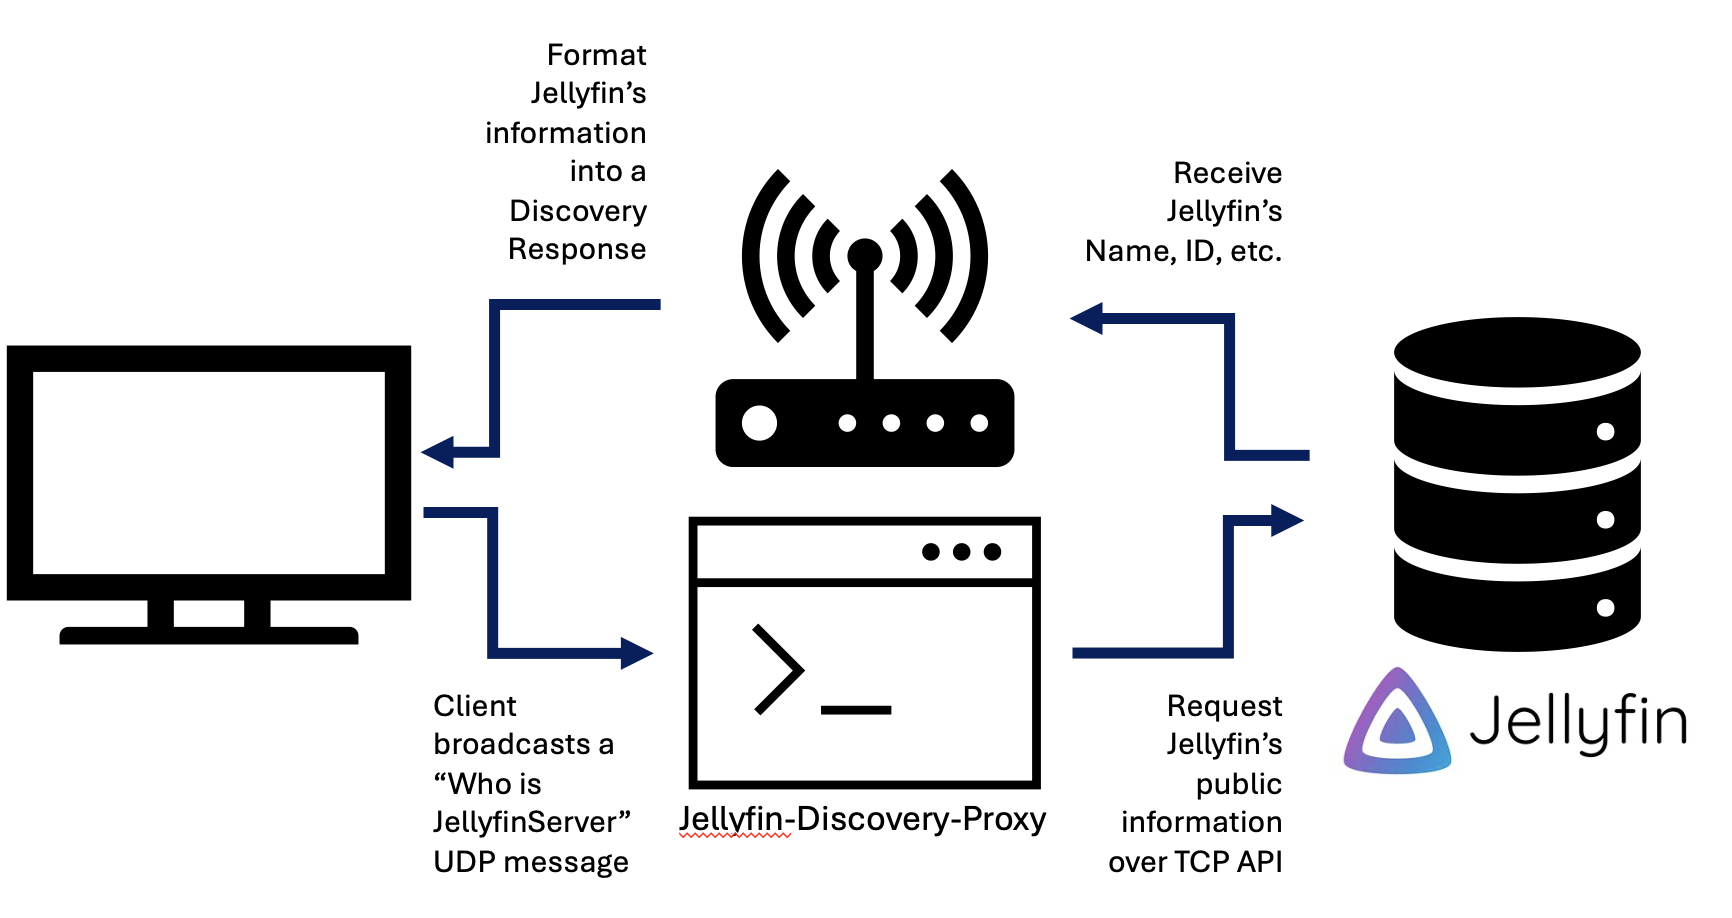
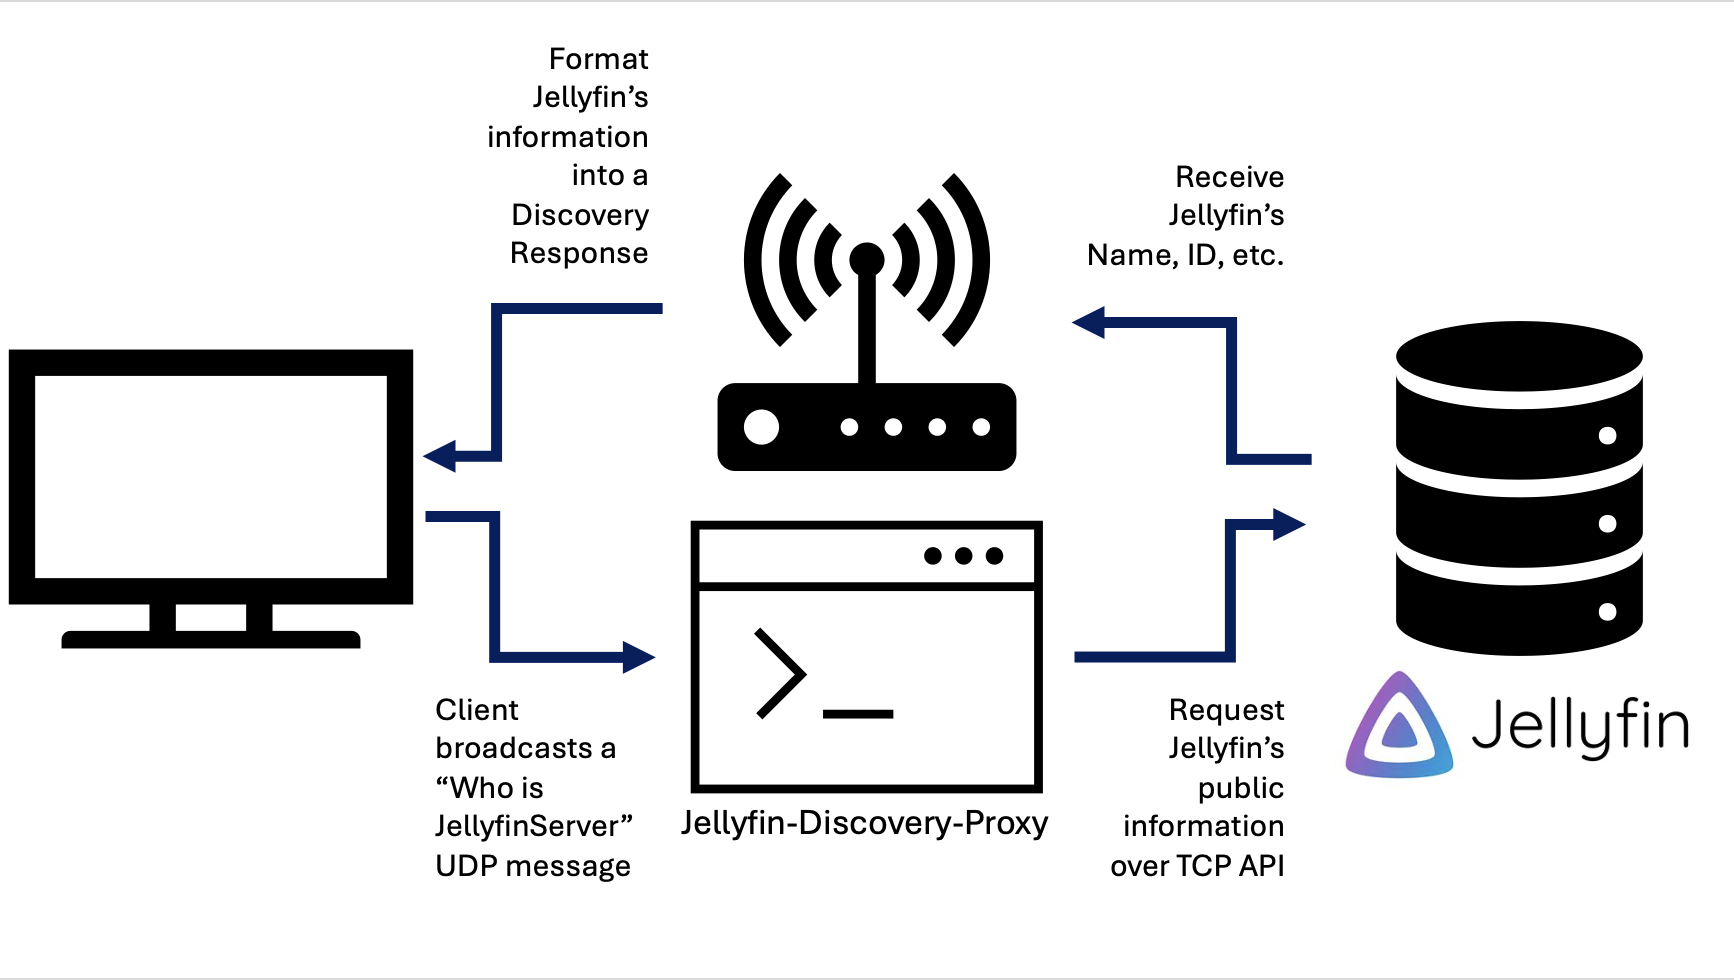
Update README and Image

diff --git a/README.md b/README.md
@@ -16,7 +16,7 @@ This proxy:
 
 This allows automatic discovery to work even in network configurations where UDP broadcasts can't reach your server.
 
-
+![Jellyfin Discovery Proxy Diagram](JDP-Diagram.png)
 
 ## Common Use Cases
 
